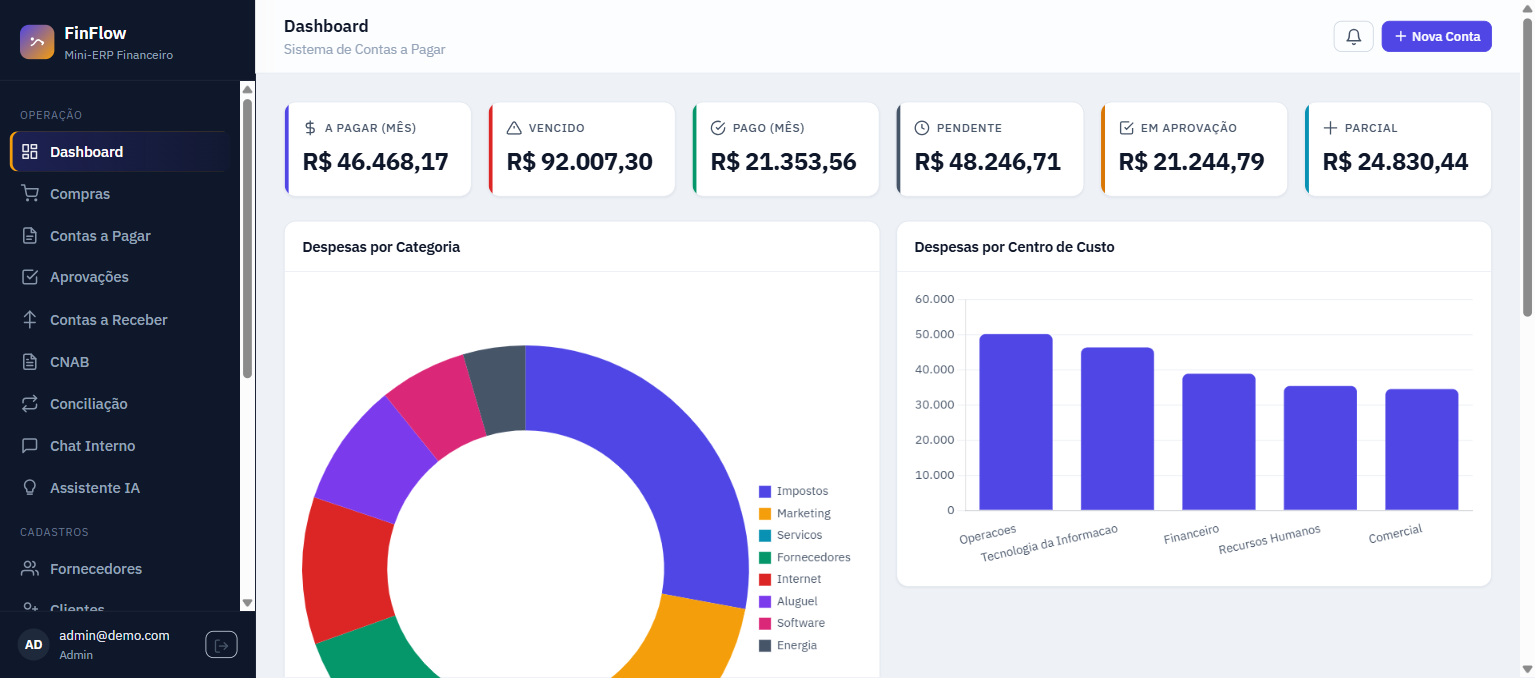
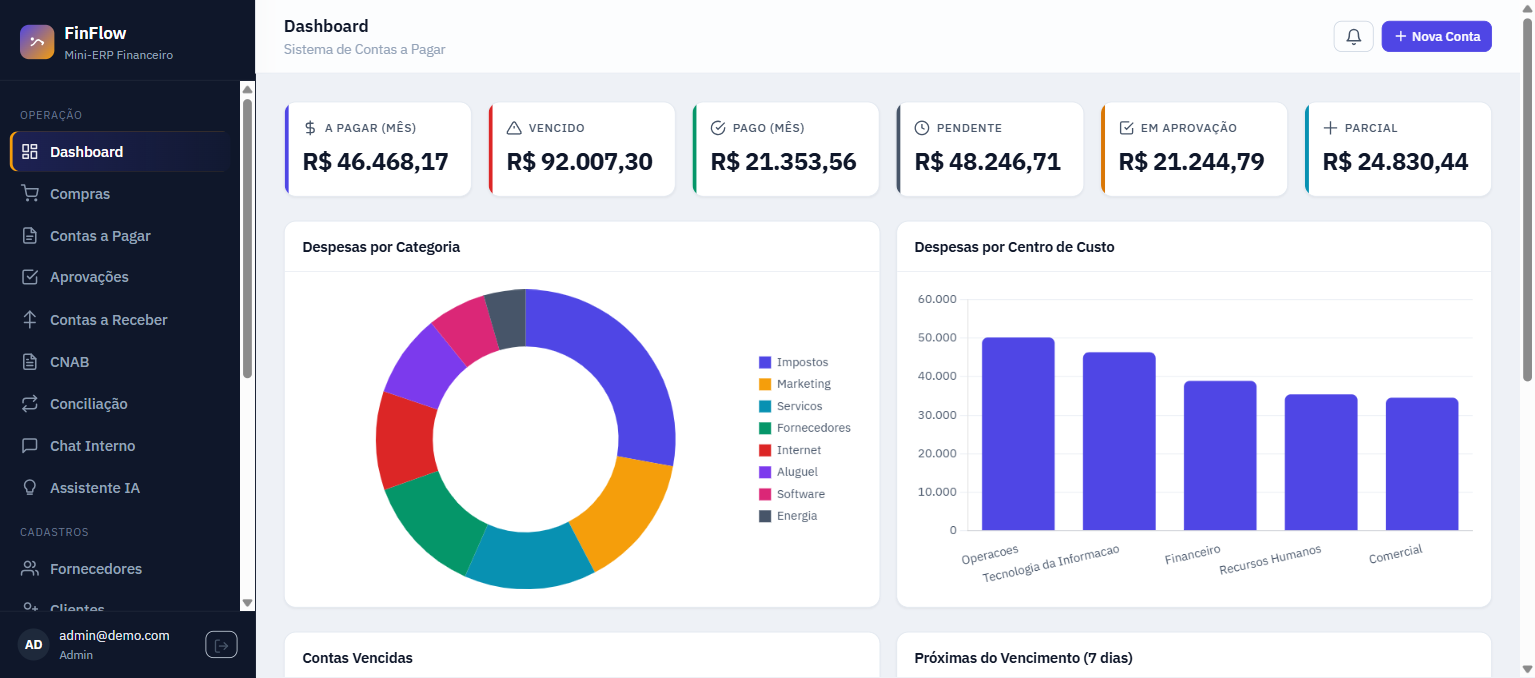
fix(ui): padroniza tamanho dos graficos (chart-box altura fixa); corrige pizza gigante no dashboard

diff --git a/src/FinFlow.Web/wwwroot/css/site.css b/src/FinFlow.Web/wwwroot/css/site.css
@@ -297,6 +297,18 @@ code { color: var(--c-primary-d); background: #eef2ff; padding: .1em .35em; bord
 
 .footer-note { color: var(--c-text-faint); font-size: .8rem; padding: 1.5rem 1.75rem; }
 
+/* ============================ Gráficos (tamanho padrão) ================= */
+/* Canvas do Chart.js preenche este box de altura fixa (maintainAspectRatio=false).
+   Evita gráficos gigantes (ex.: pizza ocupando a tela inteira). */
+.chart-box { position: relative; height: 300px; width: 100%; }
+.chart-box--sm   { height: 220px; }
+.chart-box--tall { height: 380px; }
+.chart-box > canvas { max-height: 100%; }
+
+@media (max-width: 575px) {
+  .chart-box, .chart-box--tall { height: 240px; }
+}
+
 @media (prefers-reduced-motion: reduce) {
   * { transition: none !important; animation: none !important; }
 }